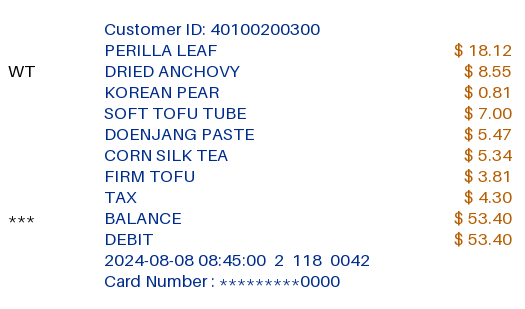
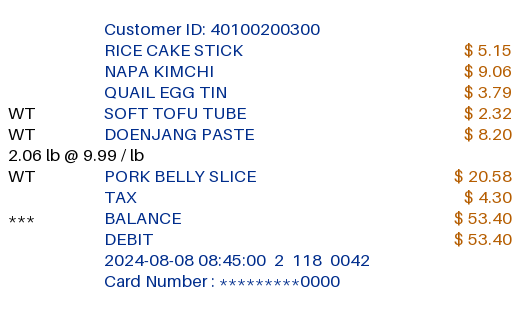
fix(qa): ISSUE-001 — compose H Mart baskets from shelf prices, not random splits
Found by /qa against a running instance. The capture generator divided each
visit total into random pieces and named them afterwards, so price and product
were independent. Measured through the shipped views:

  per-product amount spread   median 24.4x, worst 101.0x
  (TOASTED SESAME OIL at 0.34 on one trip and 34.35 on another)

Prices classifies a product by the shape of its own amounts, so that read as
weight-pricing almost everywhere: 14 of 26 products came back `weight`, 5
`multiple`, and only 7 could be given a series at all. A fixture modelling a
shape no receipt produces is the failure this project has already traced three
separate bugs to.

Baskets are now composed rather than divided. Every line sits at its product's
shelf price give or take drift, and one weighed line takes the remainder so the
basket still sums to the statement's figure exactly, which the adapter requires.
Basket size follows from what the visit cost rather than from a drawn line
count, which is the way round a shop works.

  per-product amount spread   median 1.1x, worst 10.1x
  Prices                      21 of 23 products priceable, shapes {unit: 21, weight: 2}

The products that still swing are the weighed ones, which is what a weighed
line is.

Two things the first attempt got wrong, both caught by re-reading the generated
pages rather than by the tests:

- The weight qualifier went in the flag column of the product's own row, where
[…]

diff --git a/src/unbagged/adapters/hmart/fixtures/generate.py b/src/unbagged/adapters/hmart/fixtures/generate.py
@@ -191,37 +191,73 @@ def _amount(rng: random.Random) -> tuple[str, int]:
 #: to what the engine does and would put two spellings of one product in the
 #: index for a reason that has nothing to do with the retailer.
 CAPTURE_PRODUCTS = (
-    "GREEN ONION BUNCH",
-    "FIRM TOFU",
-    "NAPA KIMCHI",
-    "TOASTED SESAME OIL",
-    "SHORT GRAIN RICE",
-    "SWEET POTATO NOODLE",
-    "GOCHUJANG PASTE",
-    "DOENJANG PASTE",
-    "FRESH GARLIC",
-    "KOREAN PEAR",
-    "ENOKI MUSHROOM",
-    "PERILLA LEAF",
-    "DRIED ANCHOVY",
-    "ROASTED SEAWEED",
-    "RICE CAKE STICK",
-    "SOFT TOFU TUBE",
-    "MUNG BEAN SPROUT",
-    "DAIKON RADISH",
-    "FISH CAKE SHEET",
-    "BLACK BEAN SAUCE",
-    "INSTANT RAMEN PACK",
-    "BARLEY TEA BAG",
-    "CITRON TEA JAR",
-    "FROZEN MANDU",
-    "PORK BELLY SLICE",
-    "BEEF BRISKET SLICE",
-    "SQUID WHOLE",
-    "MACKEREL FILLET",
-    "QUAIL EGG TIN",
-    "CORN SILK TEA",
+    ("GREEN ONION BUNCH", "2.49"),
+    ("FIRM TOFU", "3.29"),
+    ("NAPA KIMCHI", "8.99"),
+    ("TOASTED SESAME OIL", "11.49"),
+    ("SHORT GRAIN RICE", "22.99"),
+    ("SWEET POTATO NOODLE", "6.79"),
+    ("GOCHUJANG PASTE", "9.49"),
+    ("DOENJANG PASTE", "8.29"),
+    ("FRESH GARLIC", "3.99"),
+    ("KOREAN PEAR", "5.49"),
+    ("ENOKI MUSHROOM", "1.79"),
+    ("PERILLA LEAF", "2.29"),
+    ("DRIED ANCHOVY", "12.99"),
+    ("ROASTED SEAWEED", "6.49"),
+    ("RICE CAKE STICK", "4.99"),
+    ("SOFT TOFU TUBE", "2.19"),
+    ("MUNG BEAN SPROUT", "1.99"),
+    ("DAIKON RADISH", "3.49"),
+    ("FISH CAKE SHEET", "5.99"),
+    ("BLACK BEAN SAUCE", "7.29"),
+    ("INSTANT RAMEN PACK", "13.99"),
+    ("BARLEY TEA BAG", "4.49"),
+    ("CITRON TEA JAR", "9.99"),
+    ("FROZEN MANDU", "10.49"),
+    ("PORK BELLY SLICE", "15.99"),
+    ("BEEF BRISKET SLICE", "19.99"),
+    ("SQUID WHOLE", "13.49"),
+    ("MACKEREL FILLET", "11.99"),
+    ("QUAIL EGG TIN", "3.79"),
+    ("CORN SILK TEA", "5.29"),
 )
+
+#: The line that absorbs the arithmetic. Every other line on a receipt sits at
+#: its shelf price, so the basket almost never lands exactly on the statement's
+#: figure -- and it has to, to the cent, or the adapter refuses it. A weighed
+#: line is where a real receipt puts an amount that is not a shelf price, so it
+#: is where this one puts the remainder.
+WEIGHED_PRODUCTS = (
+    ("PORK BELLY SLICE", "9.99"),
+    ("BEEF BRISKET SLICE", "12.99"),
+    ("SQUID WHOLE", "8.99"),
+    ("MACKEREL FILLET", "10.49"),
+    ("KOREAN PEAR", "2.99"),
+)
+
+#: What a weighed line may come to. Wide enough that the composer almost always
+#: finds a basket that fits, narrow enough that the line stays a plausible
+#: weight of meat or fruit rather than a plug number.
+WEIGHED_MIN = Decimal("1.50")
+WEIGHED_MAX = Decimal("28.00")
+
+#: A ceiling, not a target. Baskets size themselves from what they cost; this
+#: only stops a very large total drawing a receipt taller than the page.
+MAX_BASKET_LINES = 11
+
+#: Ordinary lines before the weighed one, even on a small basket. Not cosmetic:
+#: a receipt whose whole total sits on ONE line has no redundancy, so a single
+#: misread digit takes the basket with it and the adapter refuses the lot. Two
+#: scrawled captures were lost that way -- a 3 read as a 2 under the scrawl, on
+#: a page with nothing else to contradict it.
+MIN_ORDINARY_LINES = 3
+
+#: How far a shelf price moves between visits. Prices drift; they do not swing.
+#: The Prices view classifies a product by the shape of its own amounts, so a
+#: product whose amount is redrawn at random every visit reads as weight-priced
+#: and the view can draw no series for it.
+PRICE_DRIFT = (Decimal("0.94"), Decimal("1.07"))
 
 #: The flag column, which the viewer prints beside some lines and not others.
 #: `WT` on a weighed line, `CL` where the card took a price off.
@@ -262,47 +298,95 @@ CLIPPED_CAPTURES = 1
 CAPTURE_FONT_SIZE = 17
 
 
-def _split_amount(rng: random.Random, total: Decimal, parts: int) -> list[Decimal]:
-    """`total` divided into `parts` line amounts that sum to it exactly.
+def _compose_basket(
+    rng: random.Random, total: Decimal, soft_target: int
+) -> list[tuple[str, str, Decimal | None]]:
+    """Products and amounts that sum to `total` exactly, at plausible prices.
 
-    Exactly, not nearly. The adapter compares the summed lines against the
-    statement's figure and refuses the basket on any difference at all, so a
-    rounding residue here would generate a fixture that reaches only the refusal
-    path. The remainder lands on the last line rather than being spread, which is
-    what keeps the sum exact.
+    Exactly, not nearly: the adapter compares the summed lines against the
+    statement's figure for the same visit and refuses the basket on any
+    difference at all.
+
+    The first version divided the total into random pieces and then named them,
+    which made price and product independent. Measured through the shipped
+    views, a product's amount swung a median 24x across visits and a worst 101x
+    -- sesame oil at 34 cents on one trip and $34.35 on another. Prices
+    classifies a product by the shape of its own amounts, so 14 of 26 products
+    read as weight-priced and only 7 could be given a series. That is a shape no
+    receipt produces, and this project has traced three separate bugs to a
+    fixture modelling one.
+
+    So the basket is composed rather than divided: every line sits at its shelf
+    price give or take a little drift, and one weighed line at the end takes
+    whatever is left. How many lines a basket has therefore follows from what it
+    cost, which is the way round a shop works -- `soft_target` only biases the
+    draw toward cheaper or dearer products, it does not cap the basket.
+
+    Returns `(flag, description, amount)` rows; a row with no description and no
+    amount is a full-width weight qualifier, which is how the viewer prints one.
     """
-    cents = int(total * 100)
-    # Every line needs at least 25 cents, so a basket cannot be divided into more
-    # parts than it has money for.
-    parts = max(1, min(parts, cents // 25))
-    if parts == 1:
-        return [total]
-    cuts = sorted(rng.sample(range(25, cents - 25 * (parts - 1)), parts - 1))
-    amounts, previous = [], 0
-    for index, cut in enumerate(cuts):
-        amounts.append(Decimal(cut + 25 * index - previous) / 100)
-        previous = cut + 25 * index
-    amounts.append(Decimal(cents - previous) / 100)
-    return amounts
+    remaining = total
+    rows: list[tuple[str, str, Decimal | None]] = []
+    low, high = PRICE_DRIFT
+    catalogue = list(CAPTURE_PRODUCTS)
+    rng.shuffle(catalogue)
+    # Bias toward products that will land the basket near the asked-for size.
+    if soft_target:
+        ideal = total / soft_target
+        catalogue.sort(key=lambda entry: abs(Decimal(entry[1]) - ideal))
+        catalogue = catalogue[: max(8, soft_target * 3)]
+        rng.shuffle(catalogue)
+
+    index = 0
+    while (remaining > WEIGHED_MAX or len(rows) < MIN_ORDINARY_LINES) and len(
+        rows
+    ) < MAX_BASKET_LINES:
+        name, shelf = catalogue[index % len(catalogue)]
+        index += 1
+        if index > len(catalogue) * 3:
+            break
+        if any(name == row[1] for row in rows):
+            continue
+        drift = low + (high - low) * Decimal(str(rng.random()))
+        amount = (Decimal(shelf) * drift).quantize(Decimal("0.01"))
+        # Keep enough back that the weighed line can still be a weighed line.
+        if remaining - amount < WEIGHED_MIN:
+            continue
+        rows.append((rng.choice(CAPTURE_FLAGS), name, amount))
+        remaining -= amount
+
+    if not (WEIGHED_MIN <= remaining <= WEIGHED_MAX):
+        # Nothing composed to fit. A one-line basket is a shape the real corpus
+        # also contains, and is honest about being one.
+        return [("", rng.choice(CAPTURE_PRODUCTS)[0], total)]
+
+    name, per_unit = rng.choice(WEIGHED_PRODUCTS)
+    pounds = (remaining / Decimal(per_unit)).quantize(Decimal("0.01"))
+    # The qualifier is its OWN full-width row, which is how the viewer prints it.
+    # Put on the product's row it runs from the flag column into the description
+    # column, and the engine reads the two as one word: "2.06 lb @ 1OMACWEREL
+    # FILLET" was a real transcription of the first attempt.
+    rows.append((f"{pounds} lb @ {per_unit} / lb", "", None))
+    rows.append(("WT", name, remaining))
+    return rows
 
 
-def _receipt_rows(rng: random.Random, visit: dict, amounts: list[Decimal]) -> list[tuple]:
+def _receipt_rows(rng: random.Random, visit: dict, lines: list[tuple]) -> list[tuple]:
     """The page, in the order the viewer prints it.
 
     Customer ID, the purchase lines, TAX, the balance, the tender echoing it, the
     stamp, then the card block. The two equal amounts at the foot are what tells
     the reader which line is the total, and the card block is there because the
-    reader has to stop before it — nothing from it is ever transcribed.
+    reader has to stop before it -- nothing from it is ever transcribed.
     """
-    subtotal = sum(amounts)
+    subtotal = sum(amount for _flag, _name, amount in lines if amount is not None)
     # A tax line the statement's figure excludes, which is what makes the
     # statement a pre-tax subtotal and the receipt's balance the amount paid.
     tax = (subtotal * Decimal("0.0875")).quantize(Decimal("0.01"))
     balance = subtotal + tax
-    names = rng.sample(CAPTURE_PRODUCTS, k=len(amounts))
     rows: list[tuple] = [("", f"Customer ID: {SMARTCARD}", None)]
-    for name, amount in zip(names, amounts, strict=True):
-        rows.append((rng.choice(CAPTURE_FLAGS), name, f"{amount:.2f}"))
+    for flag, name, amount in lines:
+        rows.append((flag, name, None if amount is None else f"{amount:.2f}"))
     rows += [
         ("", "TAX", f"{tax:.2f}"),
         ("***", "BALANCE", f"{balance:.2f}"),
@@ -344,8 +428,8 @@ def _captures(seed: int, visits: list[dict]) -> dict[str, bytes]:
 
     drawn: dict[str, bytes] = {}
     for index, visit in enumerate(chosen):
-        amounts = _split_amount(rng, Decimal(visit["amount"]), rng.randint(3, 9))
-        rows = _receipt_rows(rng, visit, amounts)
+        lines = _compose_basket(rng, Decimal(visit["amount"]), rng.randint(4, 9))
+        rows = _receipt_rows(rng, visit, lines)
         name = _capture_name(visit["when"])
 
         if index < CLIPPED_CAPTURES:
@@ -353,7 +437,7 @@ def _captures(seed: int, visits: list[dict]) -> dict[str, bytes]:
             # clipped page is the narrowest in its corpus and the two together
             # are what `_clipped` measures.
             drawn[name] = build_receipt(rows, width=505, clip_digits=1, font_size=CAPTURE_FONT_SIZE)
-        elif index < CLIPPED_CAPTURES + SPLIT_CAPTURES and len(amounts) >= 5:
+        elif index < CLIPPED_CAPTURES + SPLIT_CAPTURES and len(lines) >= 5:
             # One receipt, two captures. The first half is cut off flush against
             # its last line, which is the only thing distinguishing it from a
             # whole receipt, and the halves overlap by one line — which is either
@@ -377,8 +461,8 @@ def _captures(seed: int, visits: list[dict]) -> dict[str, bytes]:
     # above uses — so the reader cannot tell from the names whether it is holding
     # one tall receipt or two separate baskets, and has to decide by reading them.
     for part, visit in enumerate(visit for visit in visits if visit.get("same_day")):
-        amounts = _split_amount(rng, Decimal(visit["amount"]), rng.randint(3, 6))
-        rows = _receipt_rows(rng, visit, amounts)
+        lines = _compose_basket(rng, Decimal(visit["amount"]), rng.randint(3, 6))
+        rows = _receipt_rows(rng, visit, lines)
         drawn[_capture_name(visit["when"], part)] = build_receipt(rows, font_size=CAPTURE_FONT_SIZE)
 
     return drawn

diff --git a/src/unbagged/adapters/hmart/NOTES.md b/src/unbagged/adapters/hmart/NOTES.md
@@ -266,7 +266,7 @@ stores a basket only where the receipt's lines sum to the `Amount` the statement
 already gave for that visit. Drawing the two independently would produce a
 fixture that exercises only the refusal path.
 
-They cover 25 of the 111 visits, against 44 of 67 in the real reply. Deliberately
+They itemise 23 of the 111 visits, against 44 of 67 in the real reply. Deliberately
 a smaller share: totals-only is the normal case for this retailer and not a defect
 to generate away, and every capture costs an OCR pass at ingest, which the
 screenshot run and the container tier both pay.
@@ -280,6 +280,26 @@ Each shape exists to reach a specific branch of the reader:
 | One tall receipt in two overlapping halves | 1 visit, 2 files | `stitch`, and the seam it has to guess |
 | Two trips on one date | 2 visits, 2 files | The pair that is *not* a split receipt |
 | Clipped at the right edge | 1 | The refusal: nothing is stored, the visit keeps the statement's total |
+
+**Two captures beyond the clipped one do not reconcile, and the count is not
+fixed.** They are ordinary OCR misreads of the kind the engine makes on 10px
+type — a decimal point read as a semicolon, a 3 read as a 2 under a scrawl — and
+the adapter refuses the basket rather than storing a wrong one, which is the
+behaviour that makes reading these by machine defensible. Two things follow.
+The itemised count is a property of the installed tesseract and can move when it
+is upgraded, so **assert a range, never an exact count**. And the real reply did
+worse: 15 of its 43 visits could not be placed by their printed timestamp at all.
+
+**Amounts are composed, not divided.** Each line sits at its product's shelf
+price give or take a little drift, and one weighed line at the end takes the
+remainder so the basket still sums to the statement's figure exactly. The first
+version divided the total into random pieces and named them afterwards, which
+left price and product independent: measured through the shipped views a
+product's amount swung a **median 24x** across visits and a worst 101x, so
+Prices read 14 of 26 products as weight-priced and could draw a series for only
+7. Composed, the median spread is **1.1x** and 21 of 23 products classify as
+unit-priced. The products that still swing are the weighed ones, which is what a
+weighed line is.
 
 The same-day pair is in the **statement**, not only in the filenames. Two captures
 named for one date while each prints its own, different, stamp describes nothing
